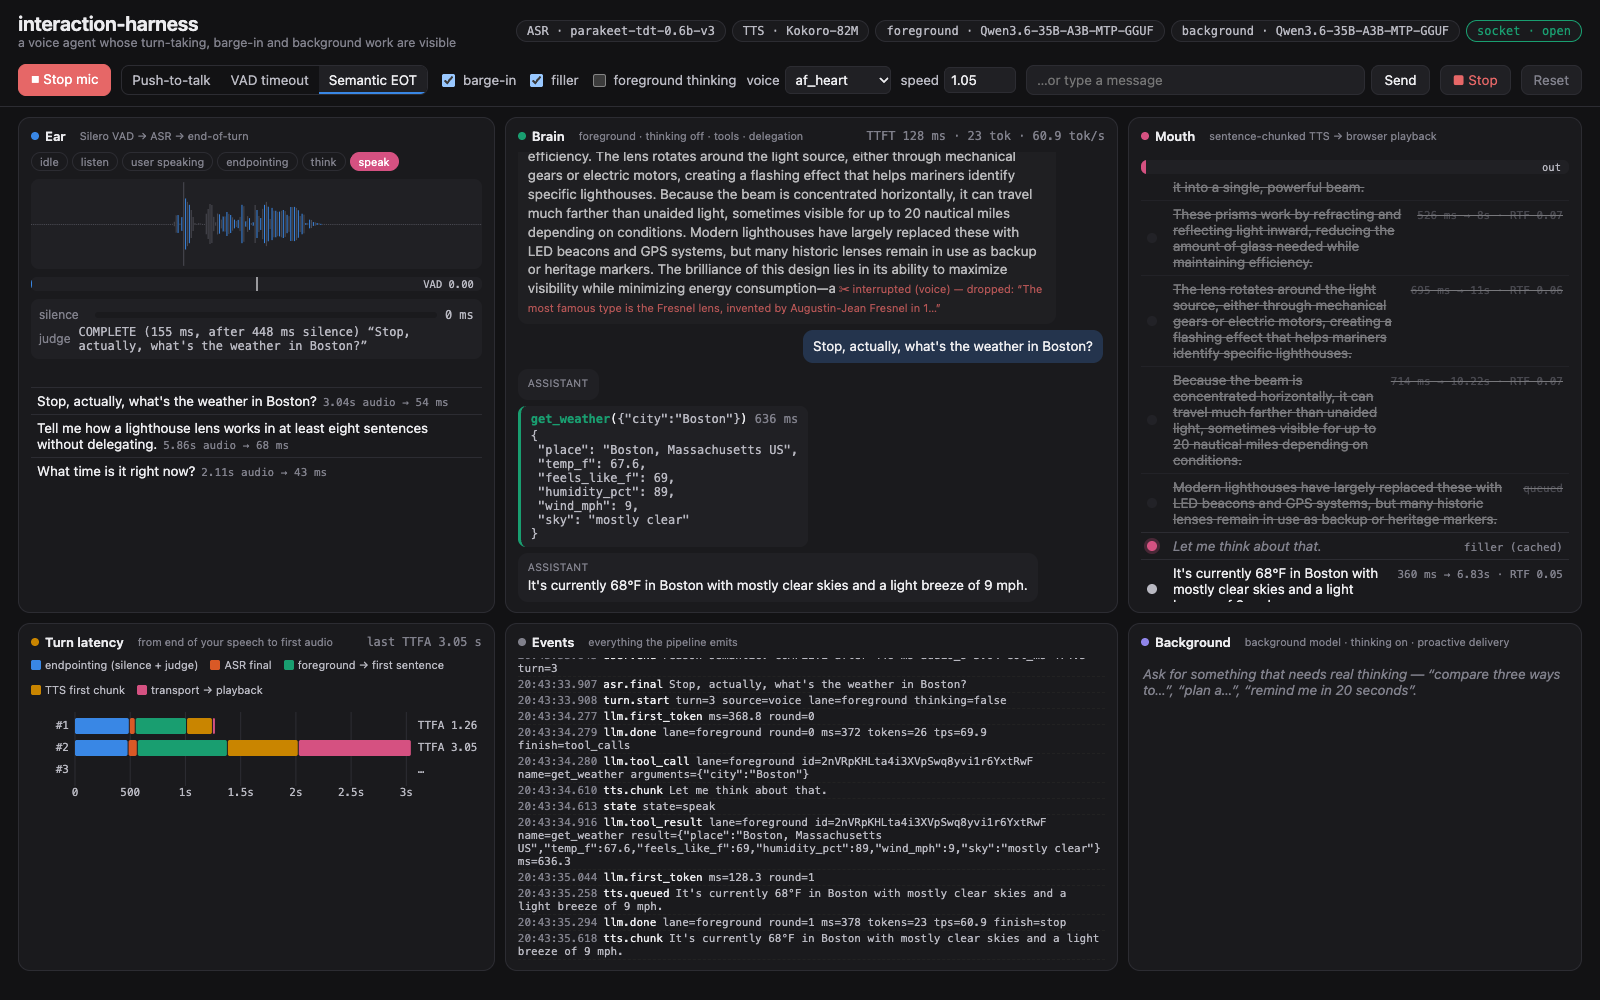
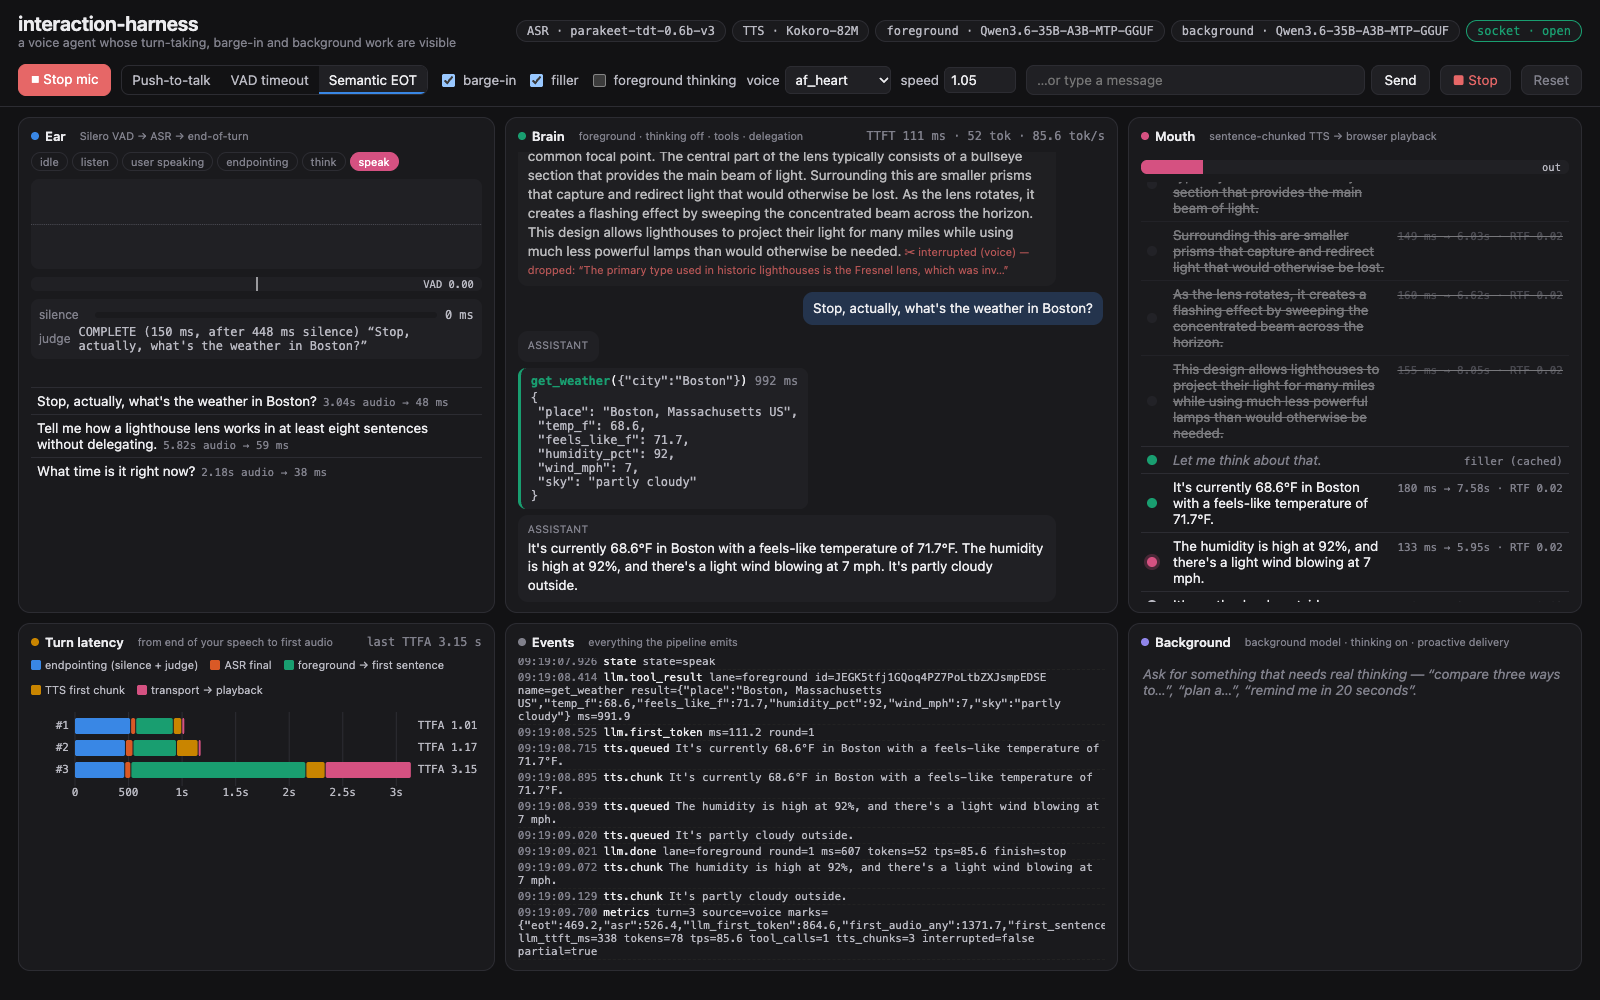
Re-record the demo at real speed and re-measure latency on an idle machine

diff --git a/README.md b/README.md
@@ -12,7 +12,7 @@ also run in-process, on Apple Silicon (MLX) or anywhere else (ONNX).
 
 <sub>A real session on one Mac, every model live: Parakeet and Kokoro in-process, Qwen3.6-35B-A3B on
 llama.cpp as both foreground and background. The user's lines are spoken by Kokoro through Chrome's fake
-microphone. Shown at 2× speed.</sub>
+microphone. Real time, no cuts.</sub>
 
 ## What it shows
 
@@ -136,17 +136,19 @@ Latency here is the time from the end of your speech to the first audio, as the 
 That includes 300 ms of silence before the judge is asked, then the judge, ASR, the foreground model's
 first sentence, and the first TTS chunk.
 
-The numbers below are the median of 5 short spoken turns with no tools, in semantic mode. They were
-measured on an M5 Max MacBook Pro, with Qwen3.6-35B-A3B (UD-Q8_K_XL, llama.cpp via Unsloth Studio) as the
-foreground model.
+The numbers below are the median of 10 short spoken turns with no tools, in semantic mode. They were
+measured on an M5 Max MacBook Pro, plugged in and otherwise idle, with Qwen3.6-35B-A3B (UD-Q8_K_XL,
+llama.cpp via Unsloth Studio) as the foreground model.
 
 | Speech | Median | Range |
 |---|---|---|
-| In-process MLX | 855 ms | 751–1,683 ms |
-| ASR + TTS on an endpoint (mlx-audio server, same machine) | 1,158 ms | 770–1,500 ms |
-| In-process ONNX on CPU (int8) | 1,506 ms | 1,204–1,957 ms |
+| In-process MLX | 908 ms | 741–1,780 ms |
+| In-process ONNX on CPU (int8) | 909 ms | 795–1,571 ms |
+| ASR + TTS on an endpoint (mlx-audio server, same machine) | 787 ms | 734–1,060 ms |
 
-Turns that call a tool add a model round trip; the waterfall shows each segment.
+On a machine this fast the three are within noise of each other. About 500 ms of a typical turn is deciding
+that you've finished: the 300 ms of silence, then the judge. That is the place to tune first. Turns that
+call a tool add a model round trip; the waterfall shows each segment.
 
 ## Tested with
 

diff --git a/docs/backends.md b/docs/backends.md
@@ -20,12 +20,12 @@ ONNX on a Mac to compare the two.
 | `PARAKEET_ONNX_VARIANT` | `int8`, `fp32` | `int8` | 639 MB (fp32: 2.4 GB) |
 | `KOKORO_ONNX_VARIANT` | `int8`, `fp16`, `fp32` | `int8` | 97 MB + 27 MB of voices (fp32: 321 MB) |
 
-On an M5 Max CPU, the int8 variants gave the same transcripts as fp32 in our checks:
+On an M5 Max CPU, the int8 variants gave the same transcripts as fp32 in our checks. Warm timings:
 
 | Model | Audio | fp32 | int8 |
 |---|---|---|---|
-| Parakeet | 4.3 s | 115 ms | 100 ms |
-| Kokoro | 2.7 s | 545 ms | 231 ms |
+| Parakeet | 4.3 s | 73 ms | 57 ms |
+| Kokoro | 2.7 s | 350 ms | 197 ms |
 
 On small CPUs, TTS is what limits latency. On GitHub's standard Linux runner (x86_64), Kokoro int8 took 3.9 s
 to synthesize 5.6 s of audio (RTF 0.69). That is faster than real time, but slow to the first word. On a
